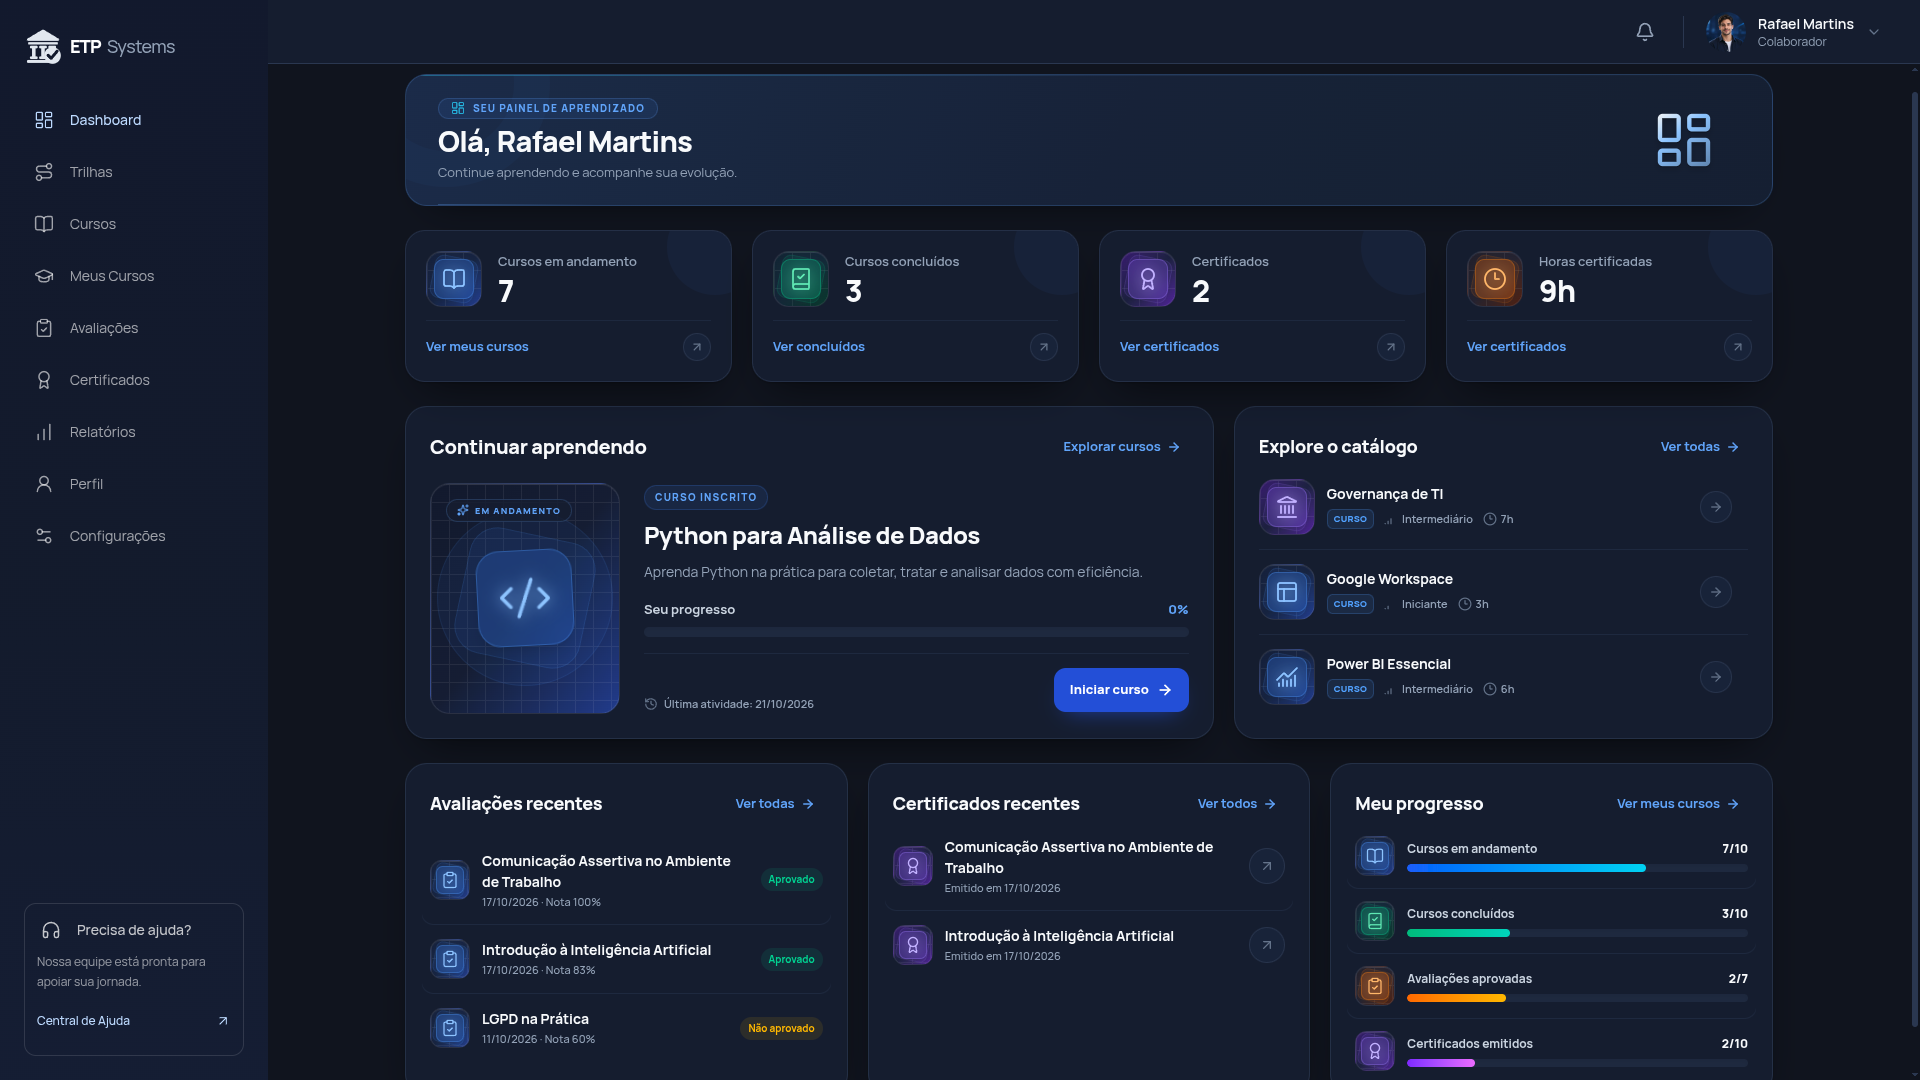
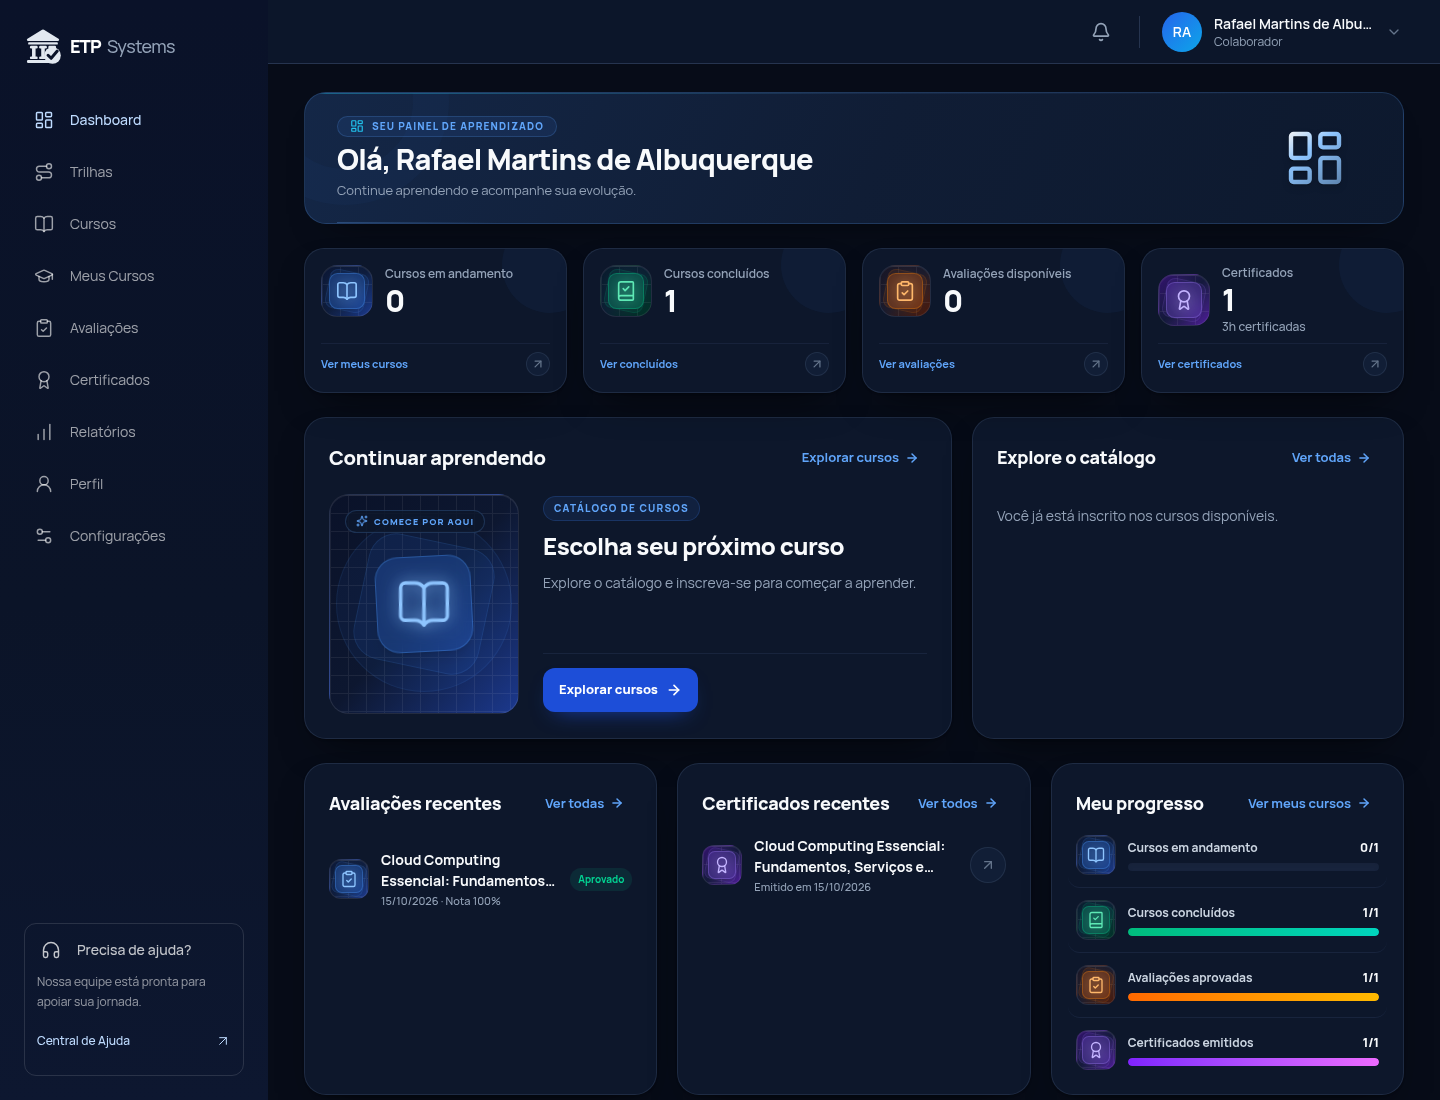
docs: atualiza capturas do colaborador e do RH

diff --git a/README.md b/README.md
@@ -51,7 +51,22 @@ A contribuição pretendida é tornar a capacitação mais organizada e seu acom
 
 ![Dashboard do colaborador no ETP Systems, com cursos em andamento, conclusões, certificados, retomada dos estudos e resultados recentes.](docs/imagens/dashboard-colaborador.png)
 
-*Painel do colaborador em uma sessão de demonstração. Os valores da captura representam aquele momento de uso.*
+*Interface atual capturada com dados ilustrativos em ambiente de teste; os números não representam resultados de uso real.*
+
+<details>
+<summary><strong>Ver a trajetória do colaborador e o acompanhamento pelo RH</strong></summary>
+
+**Trajetória no perfil** — inscrições, conclusões, avaliações e certificados em ordem cronológica.
+
+![Trajetória de aprendizagem no perfil](docs/imagens/trajetoria-colaborador.png)
+
+**Colaboradores no RH** — busca, filtros e acompanhamento individual.
+
+![Lista de colaboradores no acesso Empresa / RH](docs/imagens/colaboradores-rh.png)
+
+*Capturas com dados ilustrativos de teste.*
+
+</details>
 
 A interface reúne indicadores, continuidade dos estudos e acesso às principais áreas. O perfil Empresa / RH possui navegação própria para acompanhar colaboradores, avaliações e certificados. As telas se adaptam a computadores, tablets e celulares.
 

diff --git a/docs/README.md b/docs/README.md
@@ -18,7 +18,7 @@ Esses documentos registram etapas do desenvolvimento. Tecnologias candidatas, te
 
 | Diretório | Conteúdo |
 | --- | --- |
-| [imagens/](imagens/) | Capturas usadas na apresentação atual do repositório. O dashboard do colaborador foi fornecido a partir de uma sessão de demonstração. |
+| [imagens/](imagens/) | Capturas usadas na apresentação atual do repositório. Dashboard, trajetória do colaborador e lista do RH capturados na interface atual com dados ilustrativos de teste. |
 | [mockup/](mockup/) | Telas e referências visuais de etapas anteriores do projeto. |
 | [conteudos/](conteudos/) | Materiais de apoio à elaboração de conteúdos e avaliações. |
 
